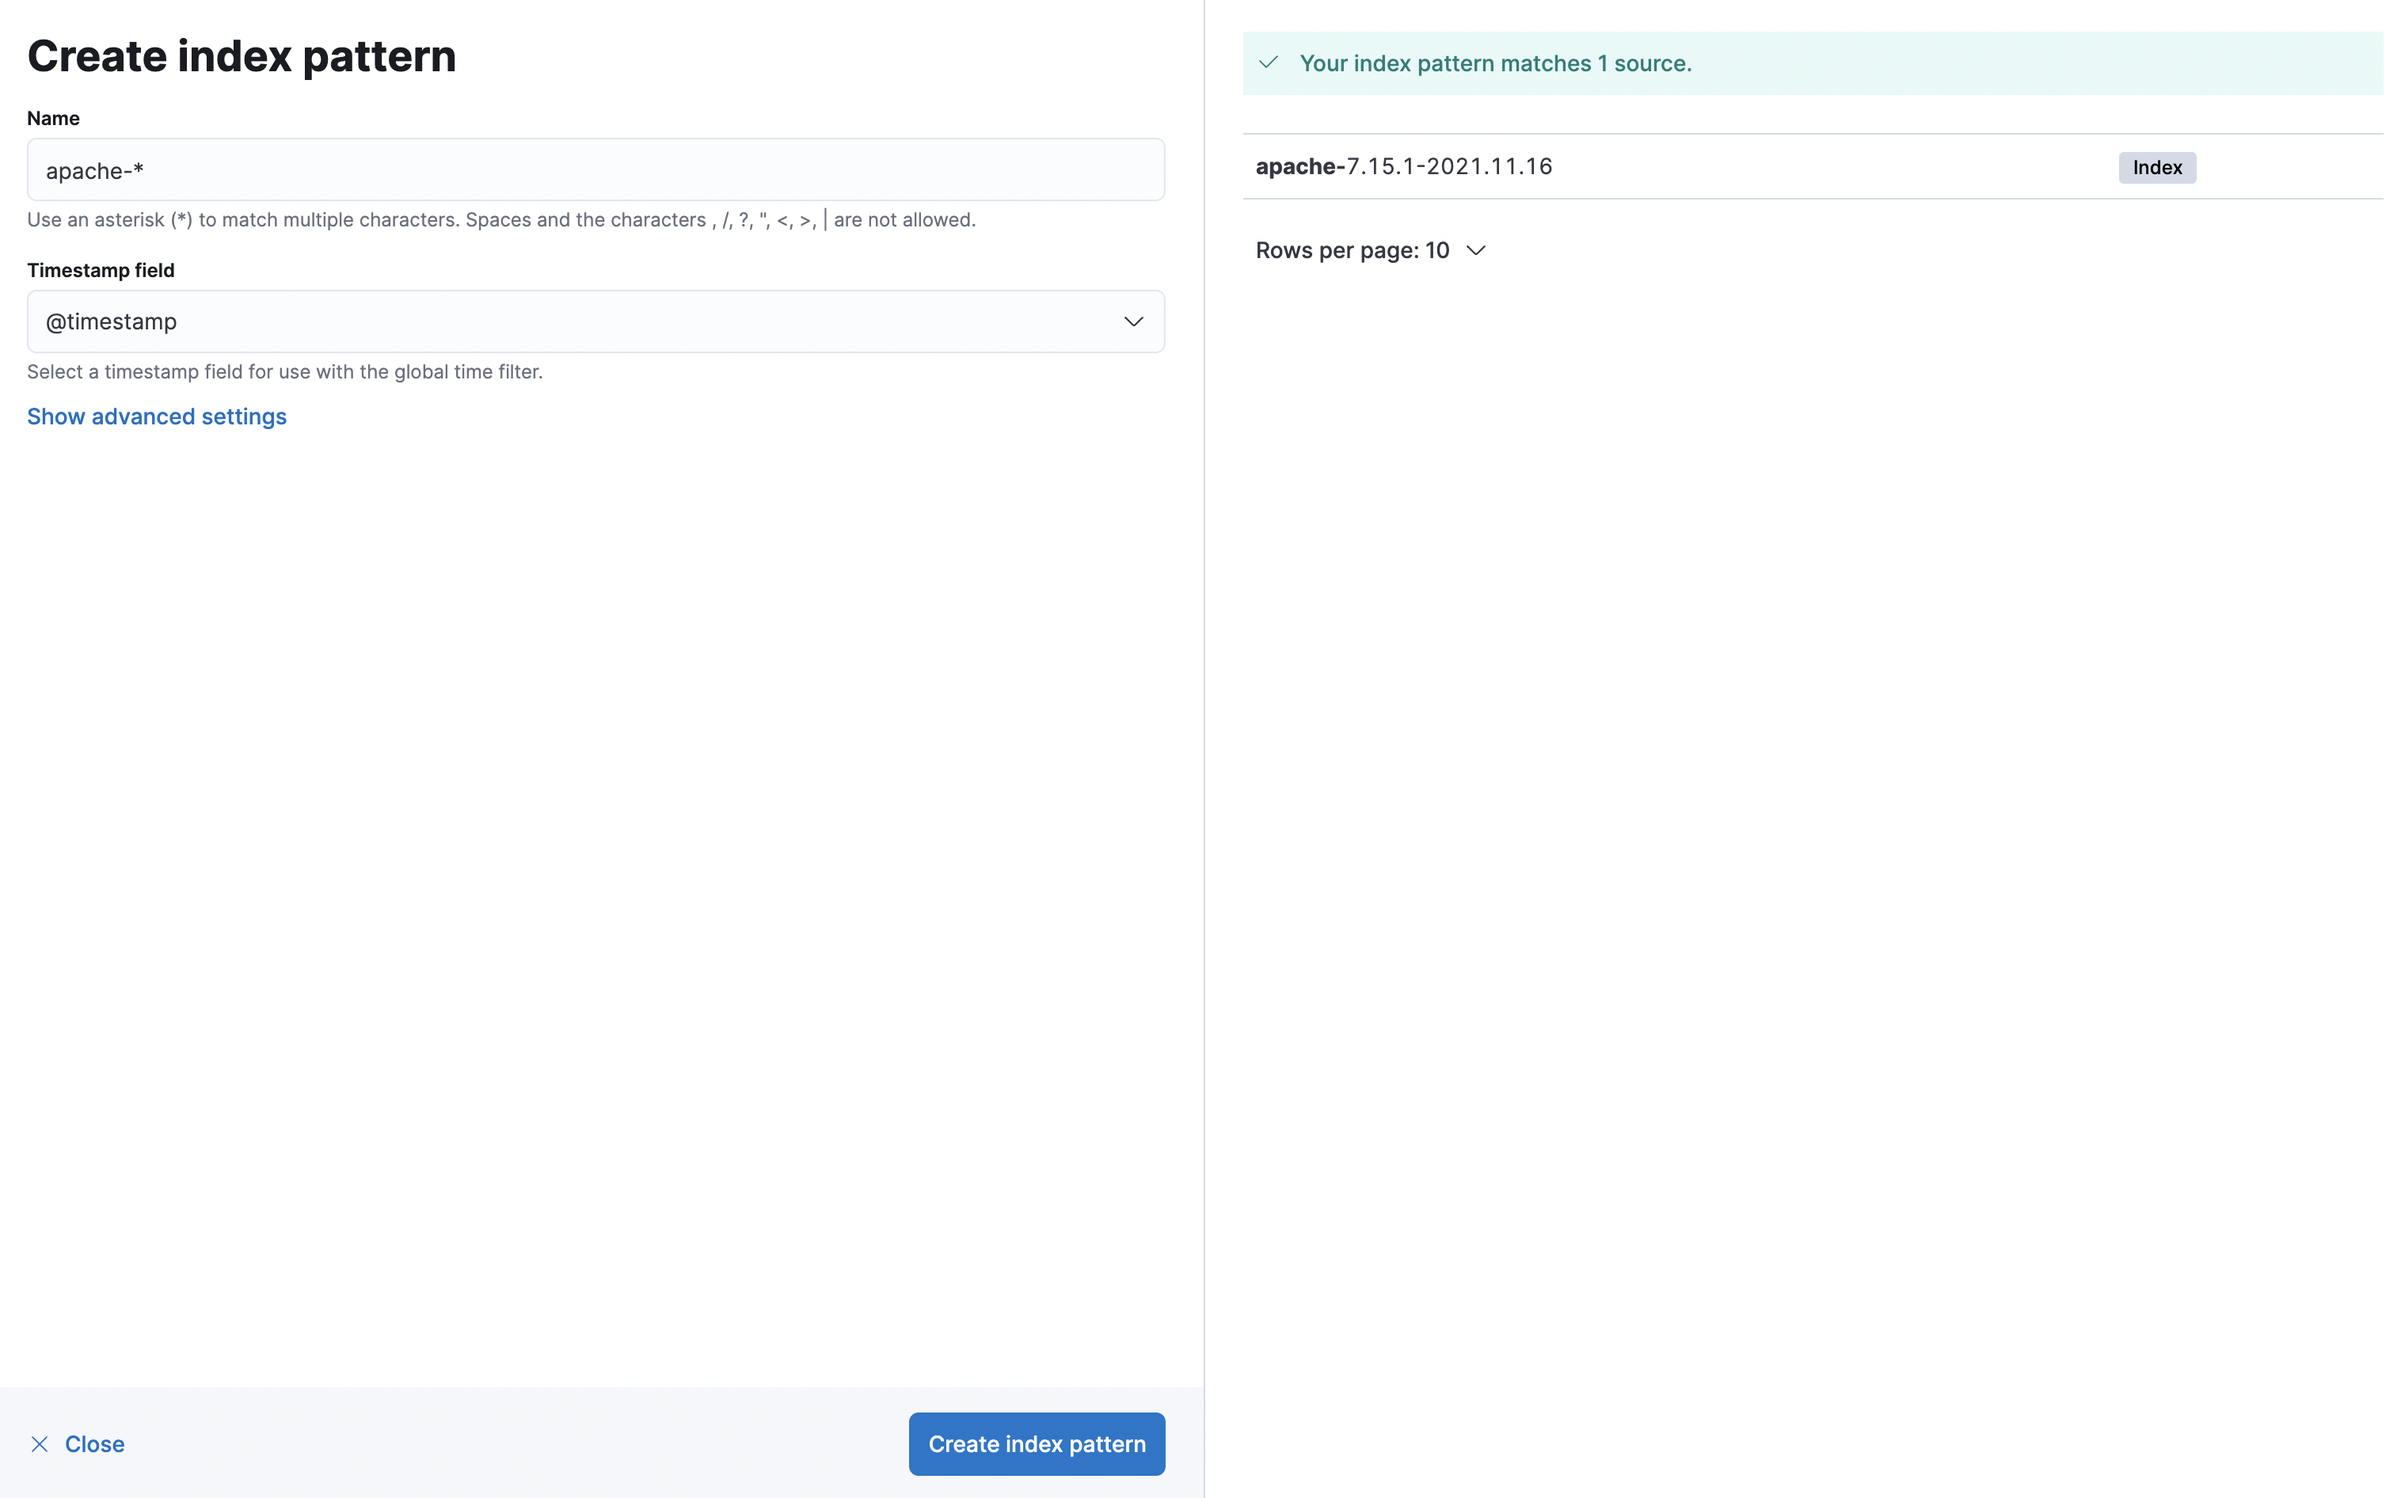
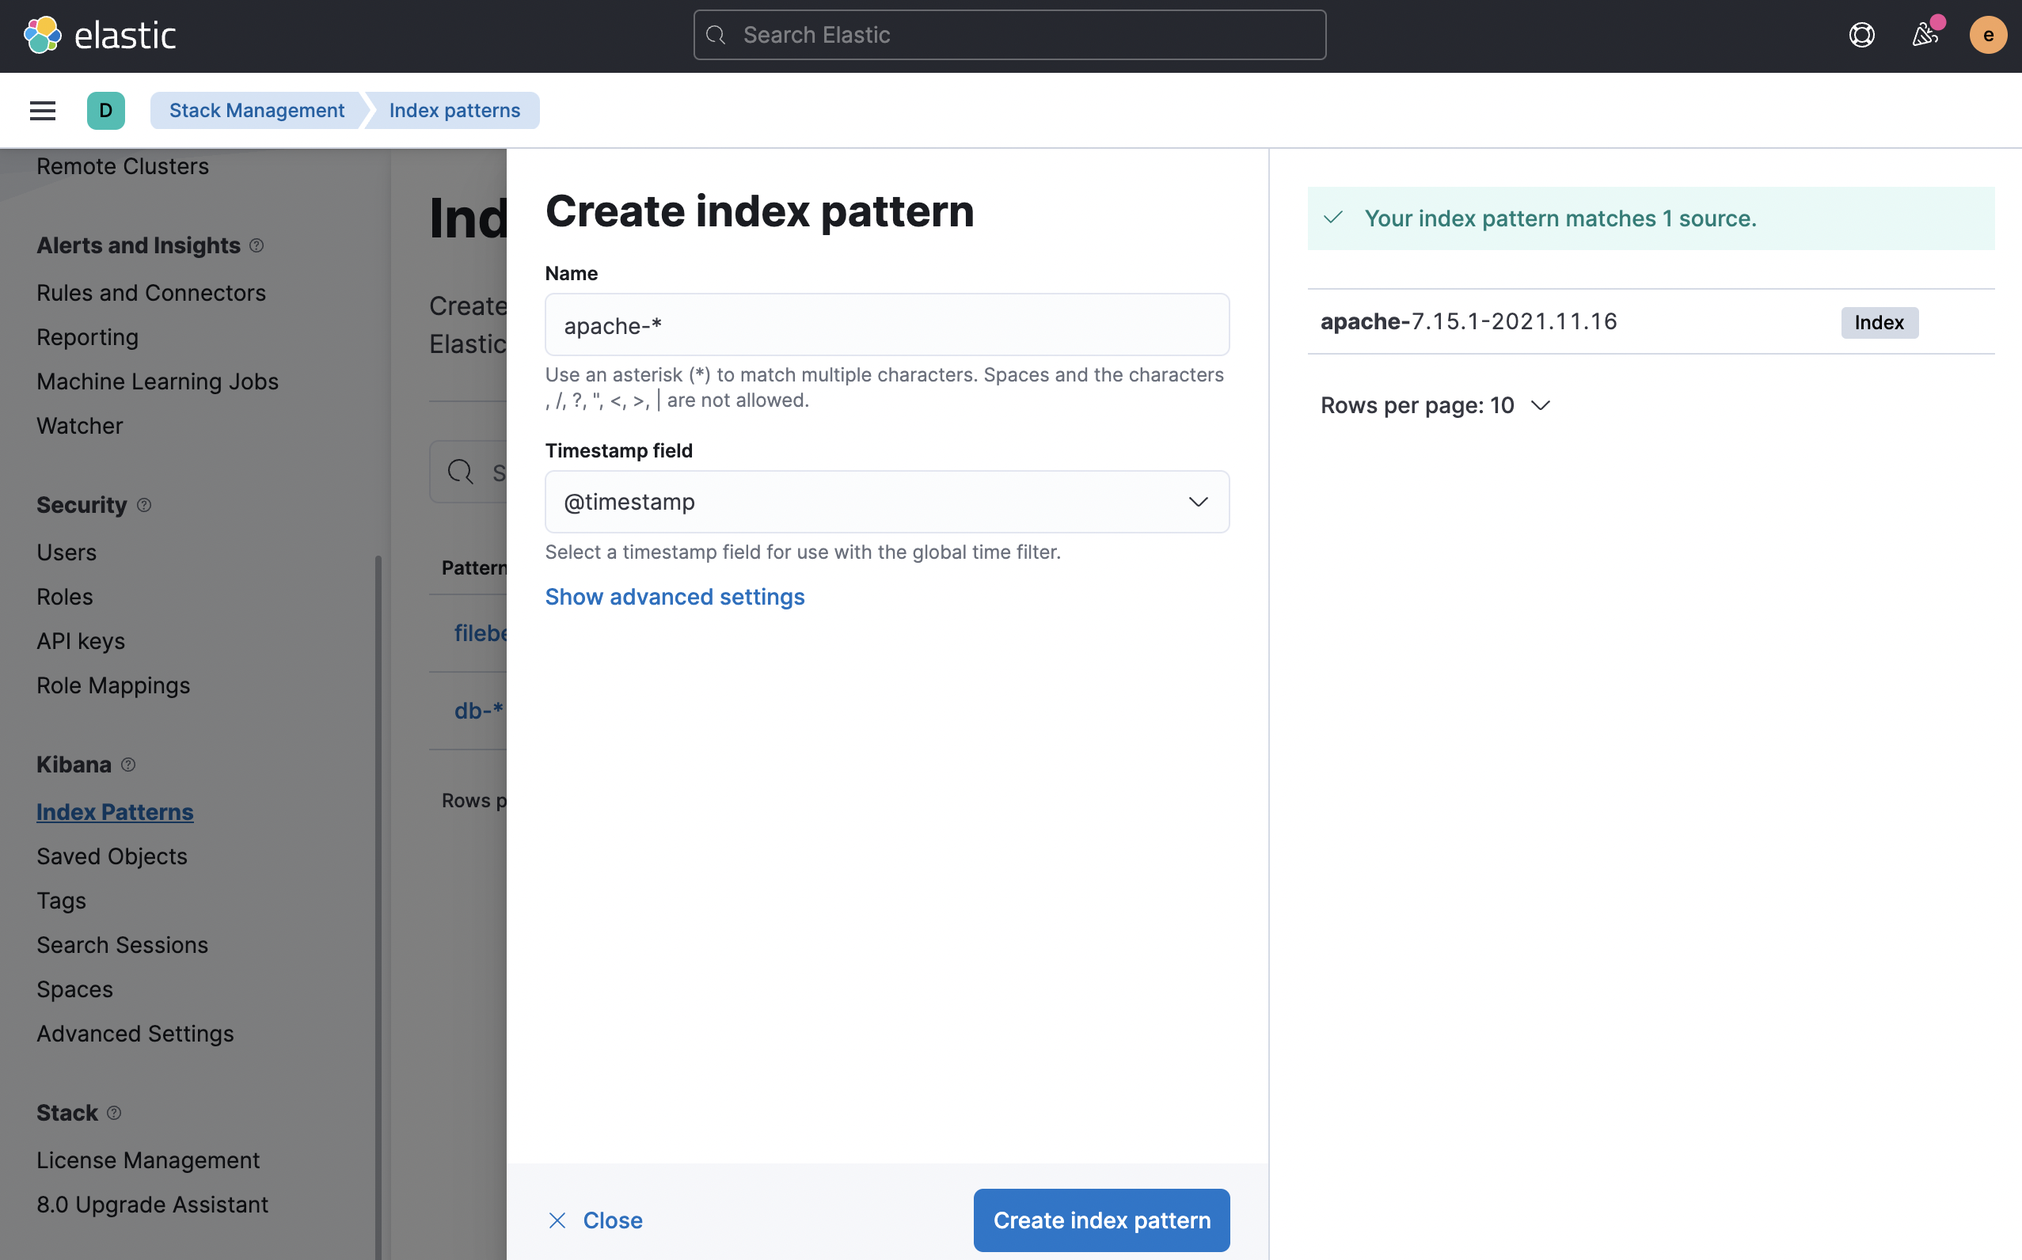
fix

diff --git a/auditing-monitoring-course/elastic/step3.md b/auditing-monitoring-course/elastic/step3.md
@@ -46,7 +46,8 @@ We have setup a default login **username** and **password** for you (Please make
 
 ![Image](./assets/index_db.png)
 
-You will be able to see the parsed log data through [here](<https://[[HOST_SUBDOMAIN]]-5601-[[KATACODA_HOST]].environments.katacoda.com/app/discover#/?_g=(filters:!(),refreshInterval:(pause:!t,value:0),time:(from:now-1M%2FM,to:now))&_a=(columns:!(audit_record.sqltext,audit_record.name,audit_record.status,audit_record.user,audit_record.ip,audit_record.host,audit_record.connection_id,audit_record.db),filters:!(),index:ef34b830-46b4-11ec-b246-8b4923ddc10f,interval:auto,query:(language:kuery,query:''),sort:!(!('@timestamp',desc)))>)
+You will be able to see the parsed log data through main menu > discover
+(Select `db-*` as index pattern)
 
 ![Image](./assets/parsed_db.png)
 
@@ -60,8 +61,11 @@ You will be able to see the parsed log data through [here](<https://[[HOST_SUBDO
 
 3. Click Create index pattern
 
-![Image](./assets/parsed_ap.png)
+![Image](./assets/index_ap.png)
 
-You will be able to see the parsed log data through [here](<https://[[HOST_SUBDOMAIN]]-5601-[[KATACODA_HOST]].environments.katacoda.com/app/discover#/?_g=(filters:!(),query:(language:kuery,query:''),refreshInterval:(pause:!t,value:0),time:(from:now%2Fd,to:now%2Fd))&_a=(columns:!(http.request.method,http.request.referrer,http.response.body.bytes,http.version,http.response.status_code,source.ip,source.address,event.dataset,error.message),filters:!(),index:e6e05850-46b5-11ec-b246-8b4923ddc10f,interval:auto,query:(language:kuery,query:''),sort:!(!('@timestamp',desc)))>)
+You will be able to see the parsed log data through main menu > discover
+(Select `apache-*` as index pattern)
+
+![Image](./assets/parsed_ap.png)
 
 <br/>
